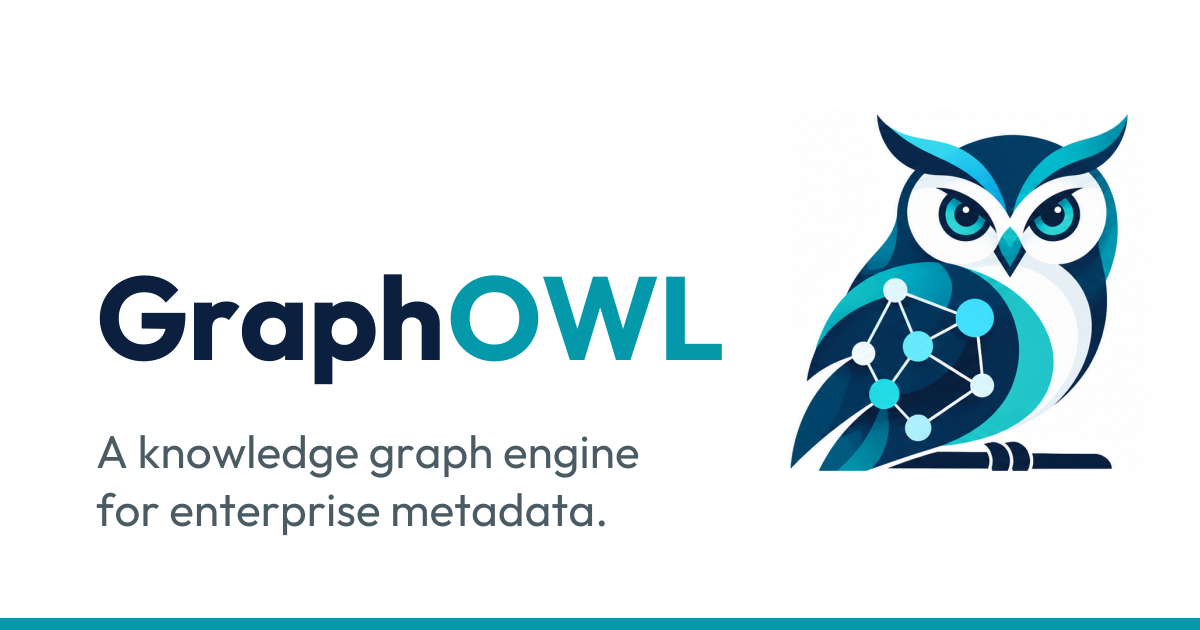
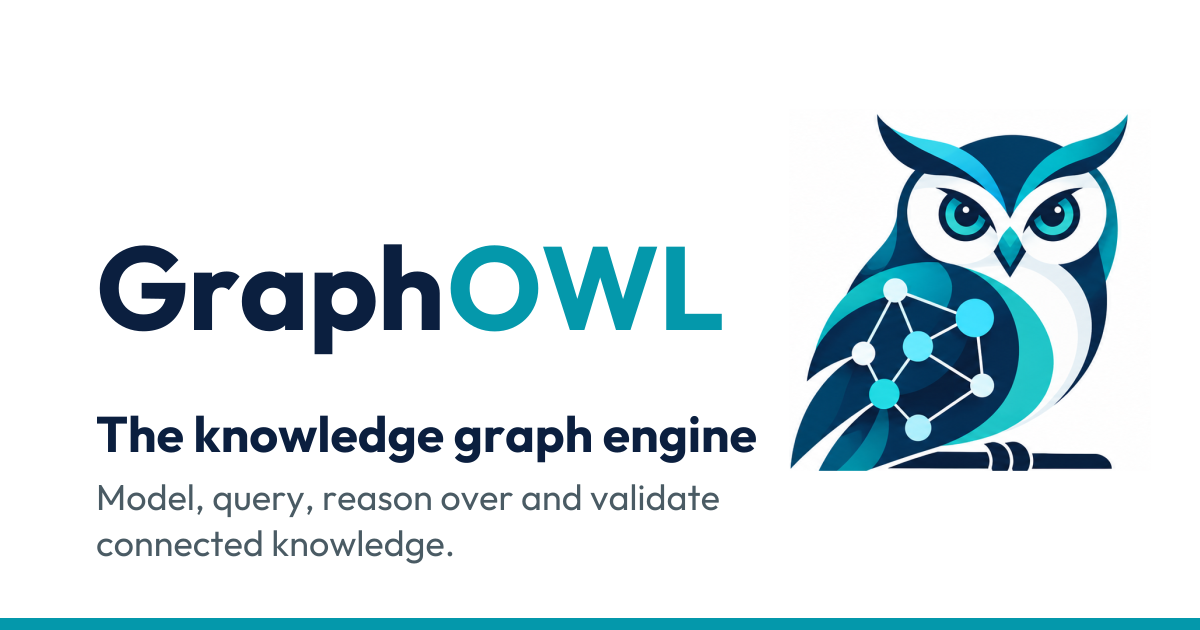
Copy: GraphOWL is a general knowledge graph engine, not only metadata; new social preview

Changed region(s): [[0.0617, 0.6635, 0.6475, 0.9048], [0.0617, 0.3921, 0.6167, 0.6333]]

diff --git a/index.html b/index.html
@@ -3,17 +3,17 @@
 <head>
   <meta charset="utf-8">
   <meta name="viewport" content="width=device-width, initial-scale=1">
-  <title>GraphOWL — a knowledge graph engine for enterprise metadata</title>
-  <meta name="description" content="GraphOWL stores, queries, reasons over and validates enterprise metadata as one connected graph, with history, rules and validation built in.">
+  <title>GraphOWL — the knowledge graph engine</title>
+  <meta name="description" content="GraphOWL stores, queries, reasons over and validates connected knowledge from your databases, documents and systems, with history, rules and validation built in.">
   <link rel="canonical" href="https://graphowl.app/">
   <meta property="og:type" content="website">
-  <meta property="og:title" content="GraphOWL — a knowledge graph engine for enterprise metadata">
-  <meta property="og:description" content="Store, query, reason over and validate enterprise metadata as one connected graph. See the console on a synthetic dairy cooperative.">
+  <meta property="og:title" content="GraphOWL — the knowledge graph engine">
+  <meta property="og:description" content="Model, query, reason over and validate connected knowledge. See the console on a synthetic dairy cooperative.">
   <meta property="og:url" content="https://graphowl.app/">
   <meta property="og:image" content="https://graphowl.app/assets/social-preview.png">
   <meta property="og:image:width" content="1200">
   <meta property="og:image:height" content="630">
-  <meta property="og:image:alt" content="GraphOWL — a knowledge graph engine for enterprise metadata">
+  <meta property="og:image:alt" content="GraphOWL — the knowledge graph engine">
   <meta name="twitter:card" content="summary_large_image">
   <link rel="icon" href="assets/favicon-32.png" sizes="32x32" type="image/png">
   <link rel="icon" href="assets/favicon-192.png" sizes="192x192" type="image/png">
@@ -34,8 +34,8 @@
 
   <main id="main">
     <section class="hero">
-      <h1>A knowledge graph engine for enterprise metadata.</h1>
-      <p class="lede">GraphOWL stores, queries, reasons over and validates enterprise metadata as one connected graph. History, rules and validation are part of the engine, not added on top of it.</p>
+      <h1>The knowledge graph engine.</h1>
+      <p class="lede">GraphOWL stores, queries, reasons over and validates connected knowledge — from your databases, documents and systems. History, rules and validation are part of the engine, not added on top of it.</p>
       <p class="actions">
         <a class="button" href="mailto:connect@graphowl.app?subject=GraphOWL%20demo%20access">Request demo access</a>
         <a class="link" href="#demo">See the console</a>
@@ -56,7 +56,7 @@
         </article>
         <article>
           <h3>Catalog</h3>
-          <p>The enterprise metadata model — entities, hierarchy and governance — expressed in the graph itself, so definitions, ownership and lineage are queried like any other fact.</p>
+          <p>Ontologies, glossaries, rules and expectations kept in the graph itself and reviewed before they take effect. A data catalog, a compliance model or a product domain is one pack on the same engine.</p>
         </article>
         <article>
           <h3>Context layer</h3>
